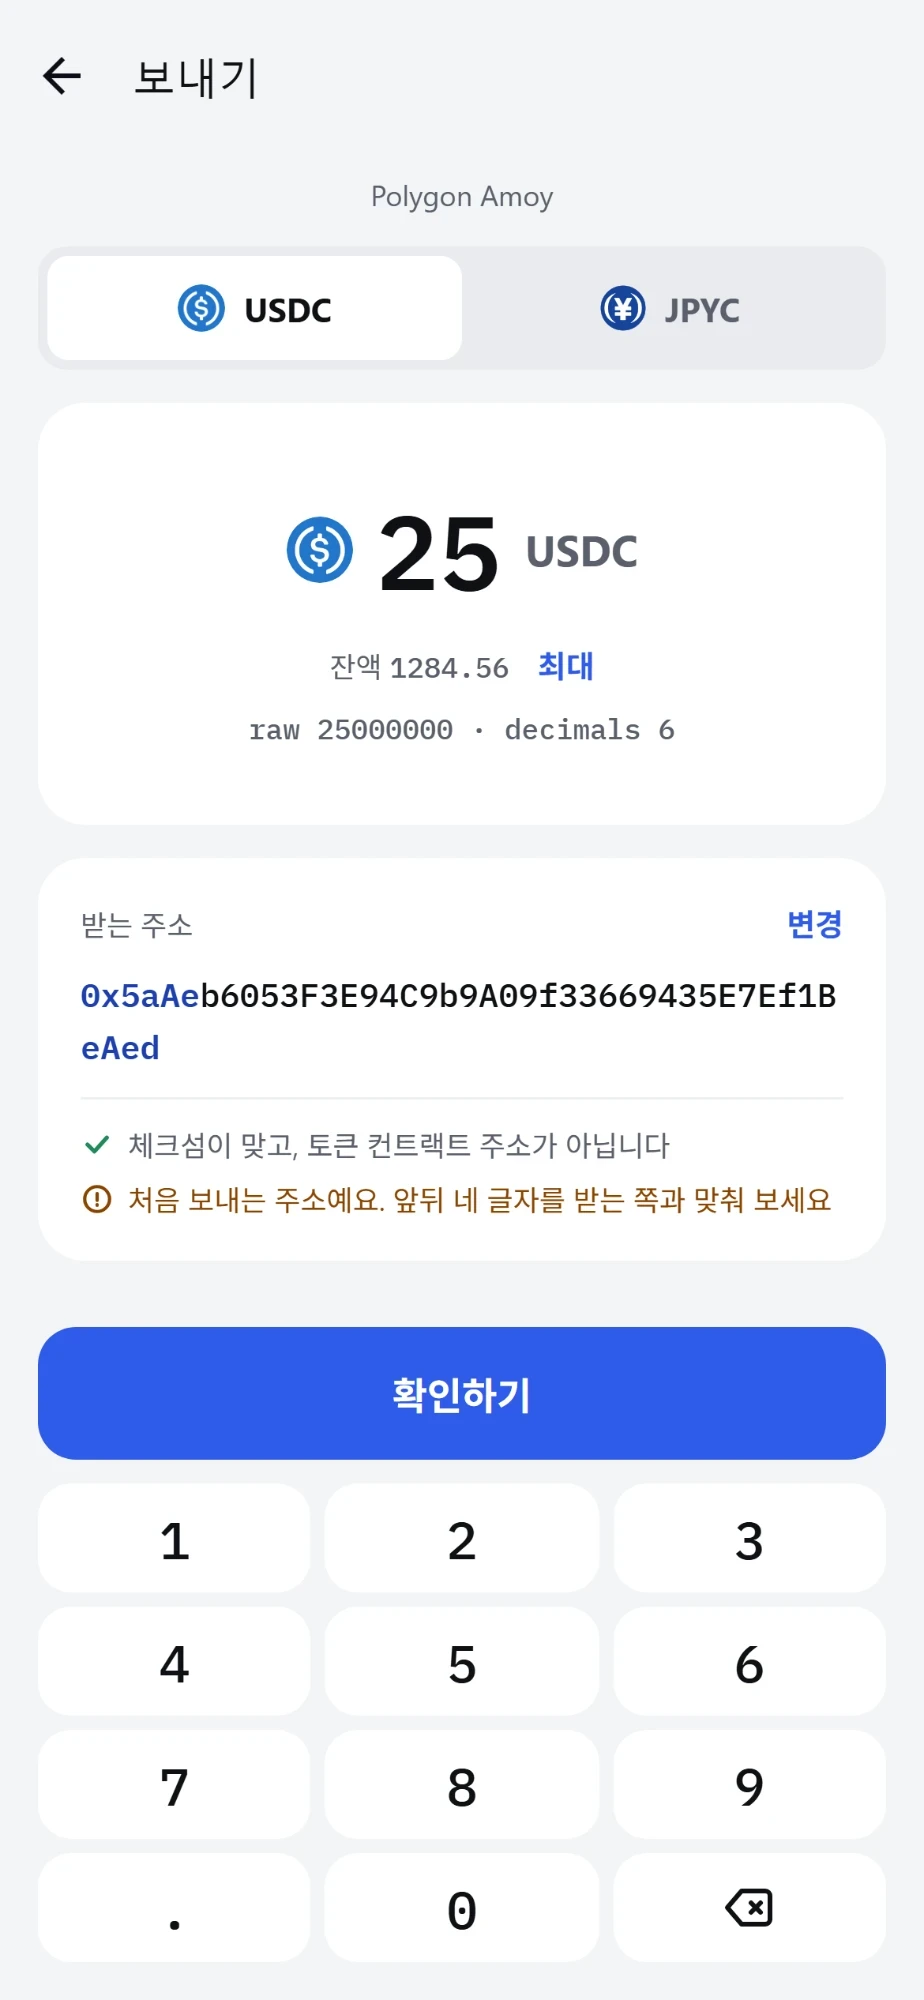
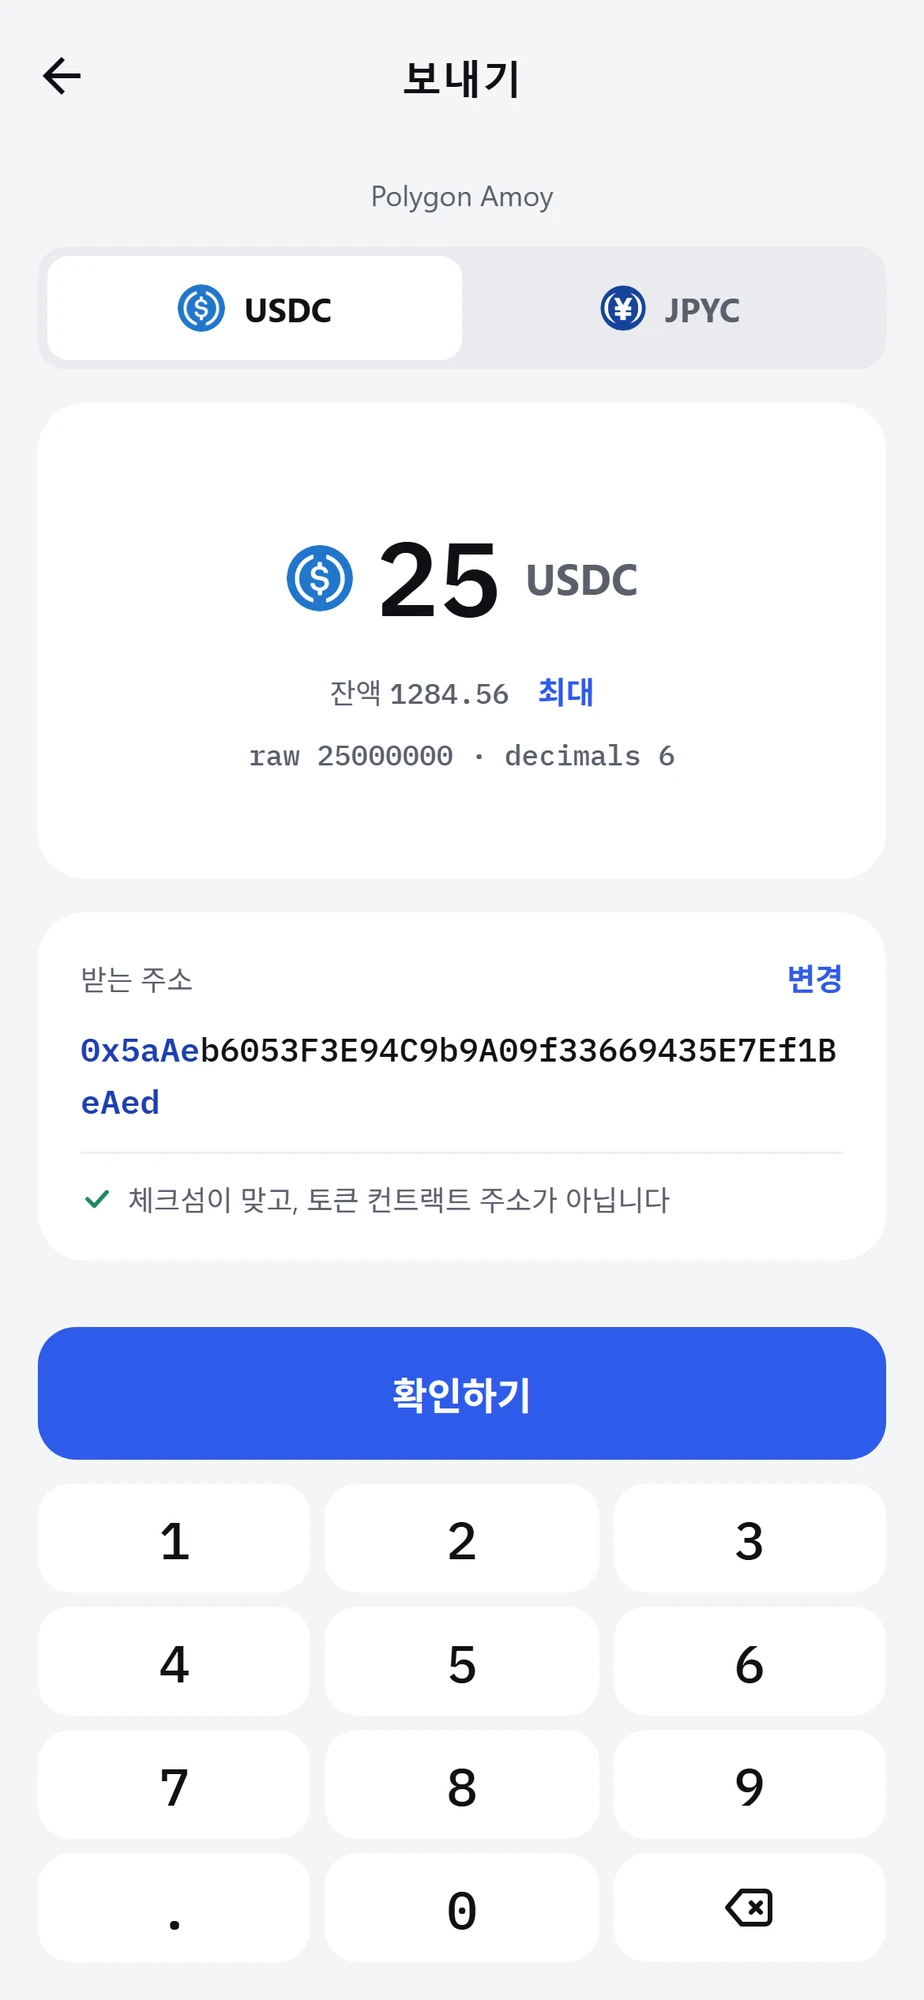
Henry Wallet 스크린샷을 최신 UI로 교체 (#30)
stable-wallet README의 최신 화면 6장으로 갤러리와 표지를 바꾸고,
처음 보내는 주소 안내가 빠진 보내기 화면의 alt를 세 언어로 고쳤다.

diff --git a/app/content/projects/henry-wallet/index.ts b/app/content/projects/henry-wallet/index.ts
@@ -76,7 +76,7 @@ export const henryWallet: Project = {
   gallery: [
     { src: welcome, alt: "The welcome screen: keys only on this device, Face ID for every signature, and everything checked before sending", frame: "phone" },
     { src: home, alt: "Home on Polygon Amoy: USDC and JPYC balances, POL for fees with about 71 transfers left, and sent payments", frame: "phone" },
-    { src: send, alt: "Sending 25 USDC: the address passes the checksum check, with a note that it's a first-time recipient", frame: "phone" },
+    { src: send, alt: "Sending 25 USDC: the amount on a number pad, and the address passing the checksum check", frame: "phone" },
     { src: review, alt: "Review before signing: both full addresses, 5 of 5 checks passed, and the expected and maximum fee", frame: "phone" },
     { src: sent, alt: "Sent: signed on the device, sent to the network and included in a block, with the actual fee next to the estimate", frame: "phone" },
     { src: receive, alt: "Receive: the address as a QR code, with a reminder to ask for Polygon Amoy", frame: "phone" },

diff --git a/app/content/projects/henry-wallet/ja.ts b/app/content/projects/henry-wallet/ja.ts
@@ -62,7 +62,7 @@ export const ja: ProjectCopy = {
     gallery: [
       "ようこそ画面。鍵はこの端末だけ、署名のたびにFace ID、送る前にすべて確認",
       "Polygon Amoyのホーム。USDC・JPYCの残高、あと約71回送れる手数料用のPOL、送った取引",
-      "25 USDCの送金。アドレスはチェックサム検査を通り、初めて送るアドレスだという案内がある",
+      "25 USDCの送金。金額はテンキーで入力し、アドレスはチェックサム検査を通っている",
       "署名前の確認。送信元・受取の完全なアドレス、検証5/5、予想・最大手数料",
       "送金後の画面。端末での署名、ネットワークへの送信、ブロックへの取り込みと、予想の横に実際の手数料",
       "受け取り。アドレスのQRコードと、Polygon Amoyで送ってもらうよう促す注意書き",

diff --git a/app/content/projects/henry-wallet/ko.ts b/app/content/projects/henry-wallet/ko.ts
@@ -62,7 +62,7 @@ export const ko: ProjectCopy = {
     gallery: [
       "환영 화면. 키는 이 기기에만, 서명할 때마다 Face ID, 보내기 전에 모두 확인",
       "Polygon Amoy 홈. USDC·JPYC 잔액, 약 71회 전송할 수 있는 수수료용 POL, 보낸 거래",
-      "25 USDC 보내기. 주소가 체크섬 검사를 통과했고, 처음 보내는 주소라는 안내가 있다",
+      "25 USDC 보내기. 금액은 숫자 키패드로 넣고, 주소는 체크섬 검사를 통과했다",
       "서명 전 확인. 보내는·받는 전체 주소, 검증 5/5, 예상·최대 수수료",
       "보낸 뒤 화면. 기기 서명, 네트워크 전송, 블록 포함과 예상값 옆의 실제 수수료",
       "받기. 주소 QR 코드와 Polygon Amoy로 보내 달라는 안내",

diff --git a/docs/VALIDATION.md b/docs/VALIDATION.md
@@ -2,6 +2,12 @@
 
 기준일: 2026-10-23 (Asia/Seoul)
 
+## Henry Wallet 스크린샷을 최신 UI로 교체 (2026-10-23)
+
+- 사용자 요청에 따라 stable-wallet README의 최신 스크린샷 6장(`docs/screenshots`, #52 이후 화면: 지구 아이콘 언어 버튼, 한 줄로 줄인 POL 수수료 줄)으로 갤러리를 바꿨다. 1170×2532 원본을 기존과 같은 924×2000 WebP로 줄였고, 표지는 같은 방식으로 홈·서명 전 확인·보낸 뒤 화면을 다시 합성했다.
+- 새 보내기 화면에는 처음 보내는 주소 안내가 없어서 세 언어 alt를 화면에 맞게 고쳤다. `docs/baseline.json`은 Henry Wallet 상세 3개 경로의 그 alt만 바뀌었다.
+- 로컬 Node 26.7.0에서 `pnpm check`, `pnpm generate`(33개 페이지, 381개 자산 검증), `pnpm test:pages`가 통과했다.
+
 ## Henry Wallet 데모 링크 추가 (2026-10-23)
 
 - 사용자 요청에 따라 Henry Wallet에 예시 데이터로 도는 웹 데모 `https://wallet.portfolio-hub.dev`를 `links.live`로 걸었다. 문구는 다른 데모와 같게 "Try the demo"·"데모 보기"·"デモを見る"다. 저장소는 비공개라 GitHub 링크는 넣지 않았다.
